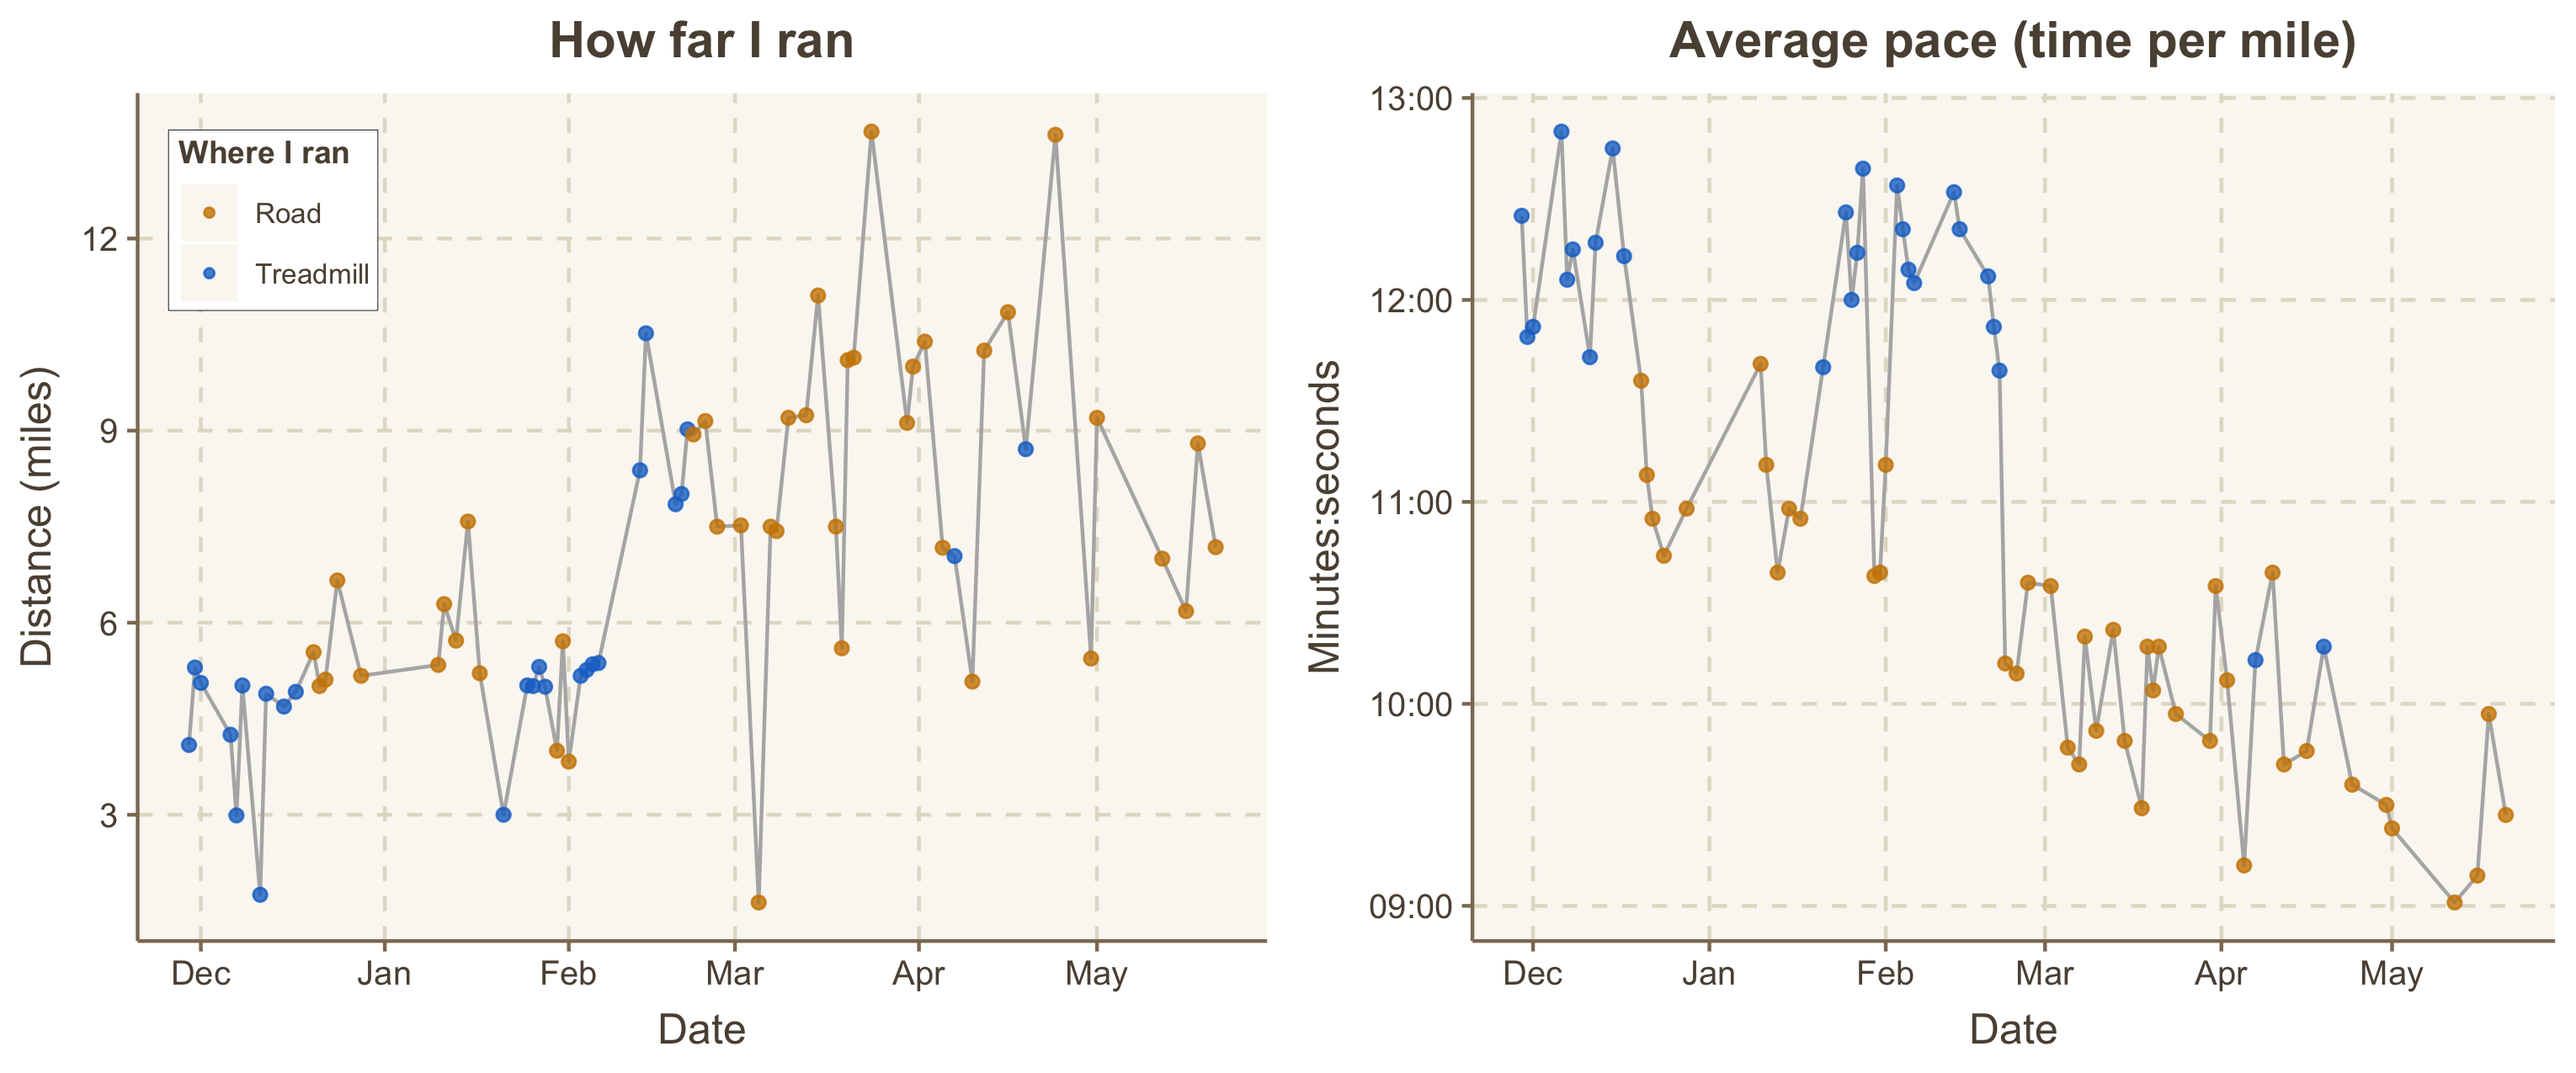
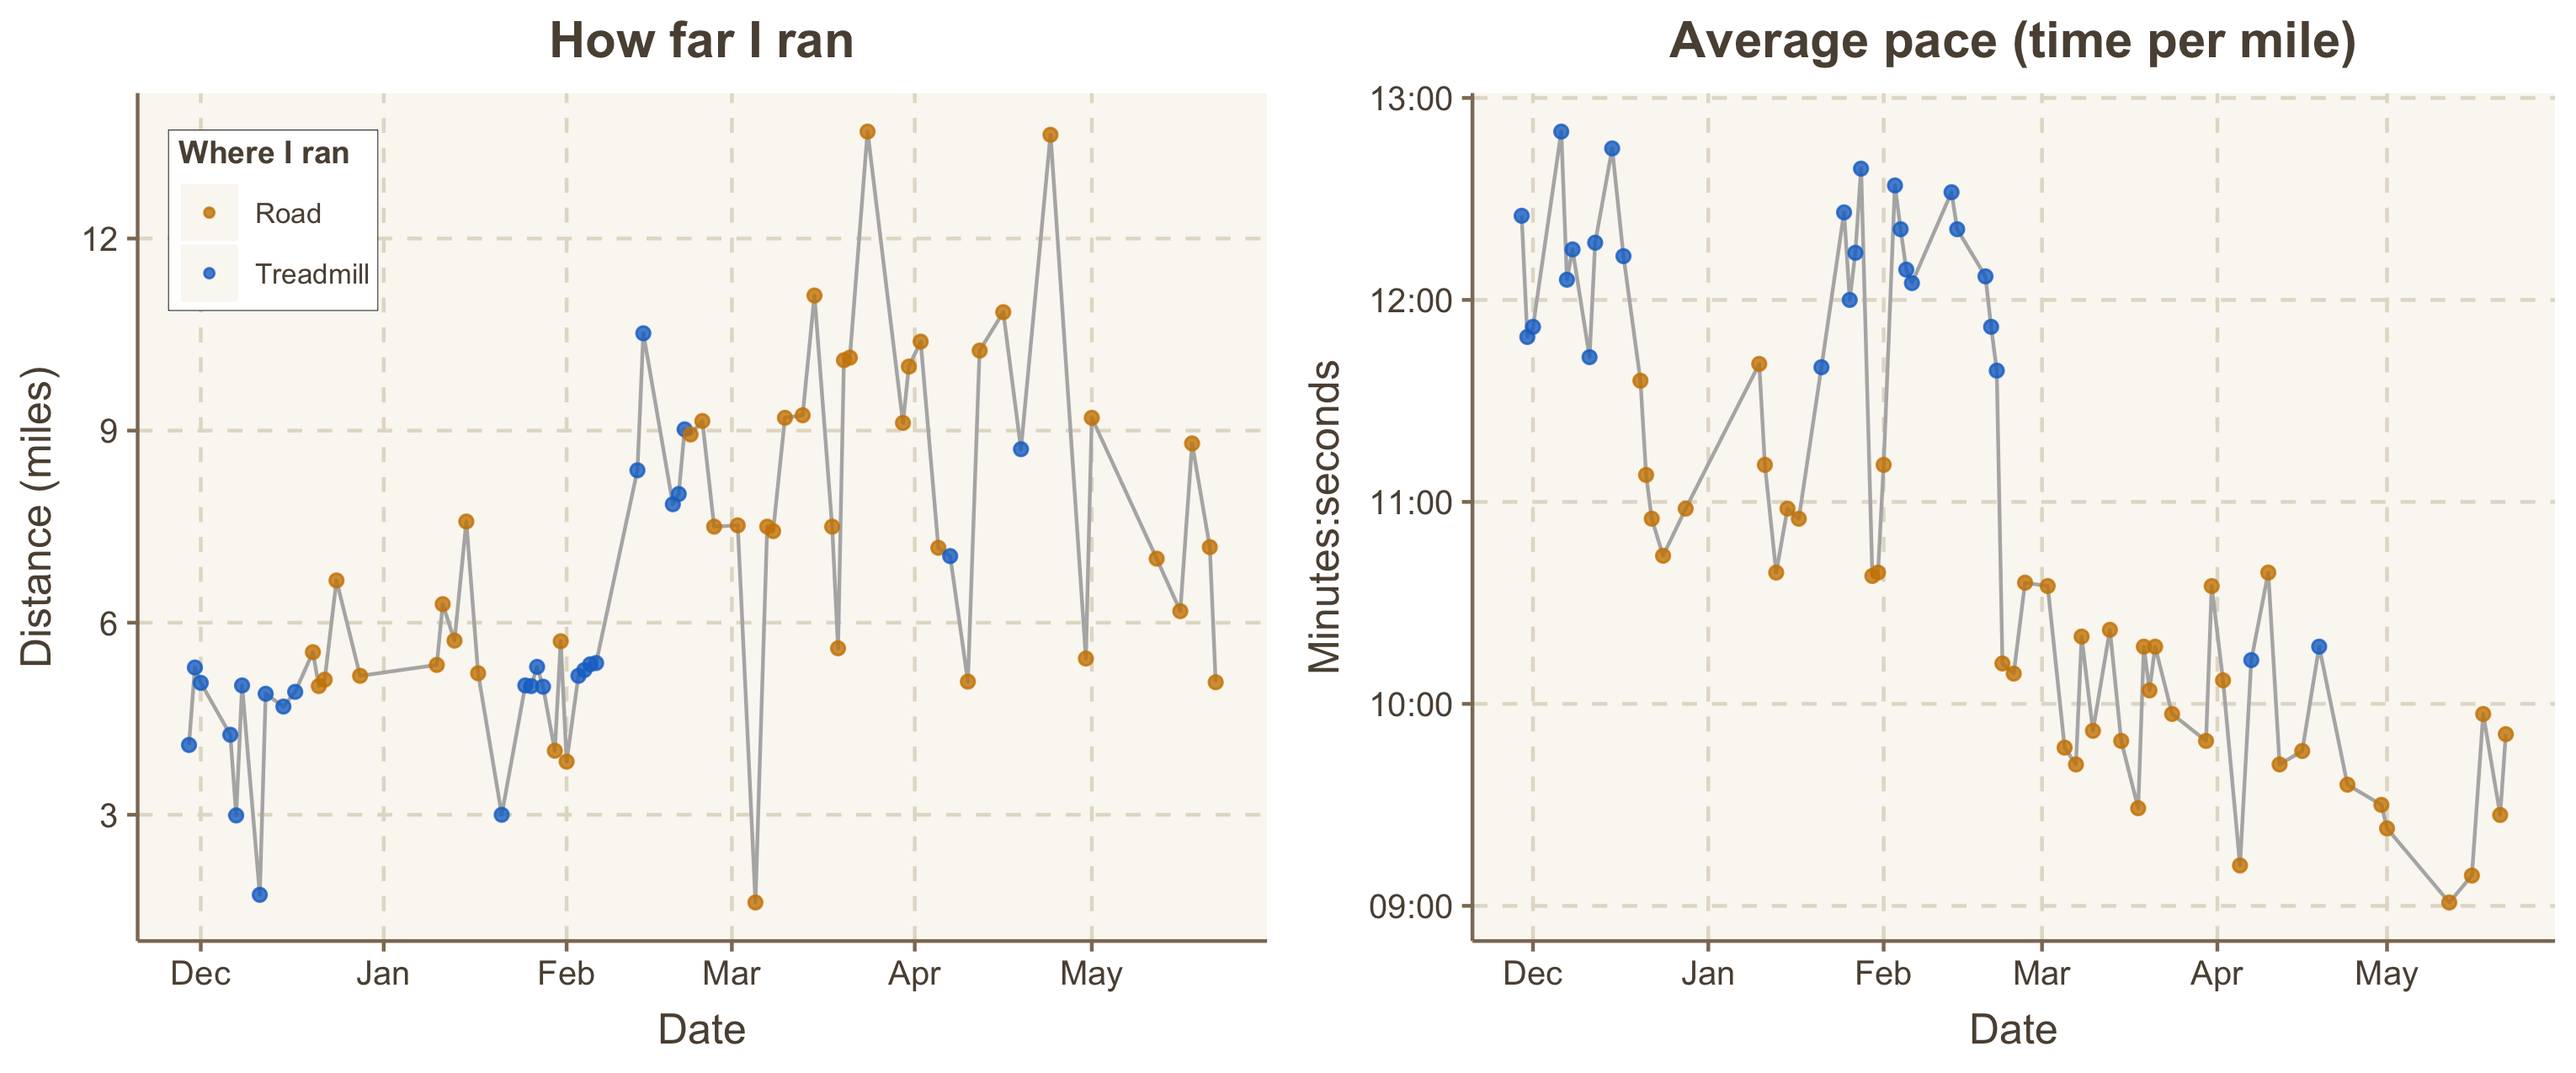
5/22/22

diff --git a/README.md b/README.md
@@ -25,7 +25,7 @@ ggarrange(p1, p2, nrow=1)
 sum(runningData$Miles)
 ```
 
-    ## [1] 464.66
+    ## [1] 469.73
 
 Average distance during the last 10 runs:
 
@@ -33,4 +33,4 @@ Average distance during the last 10 runs:
 mean(tail(runningData$Miles, 10))
 ```
 
-    ## [1] 8.723
+    ## [1] 8.205
